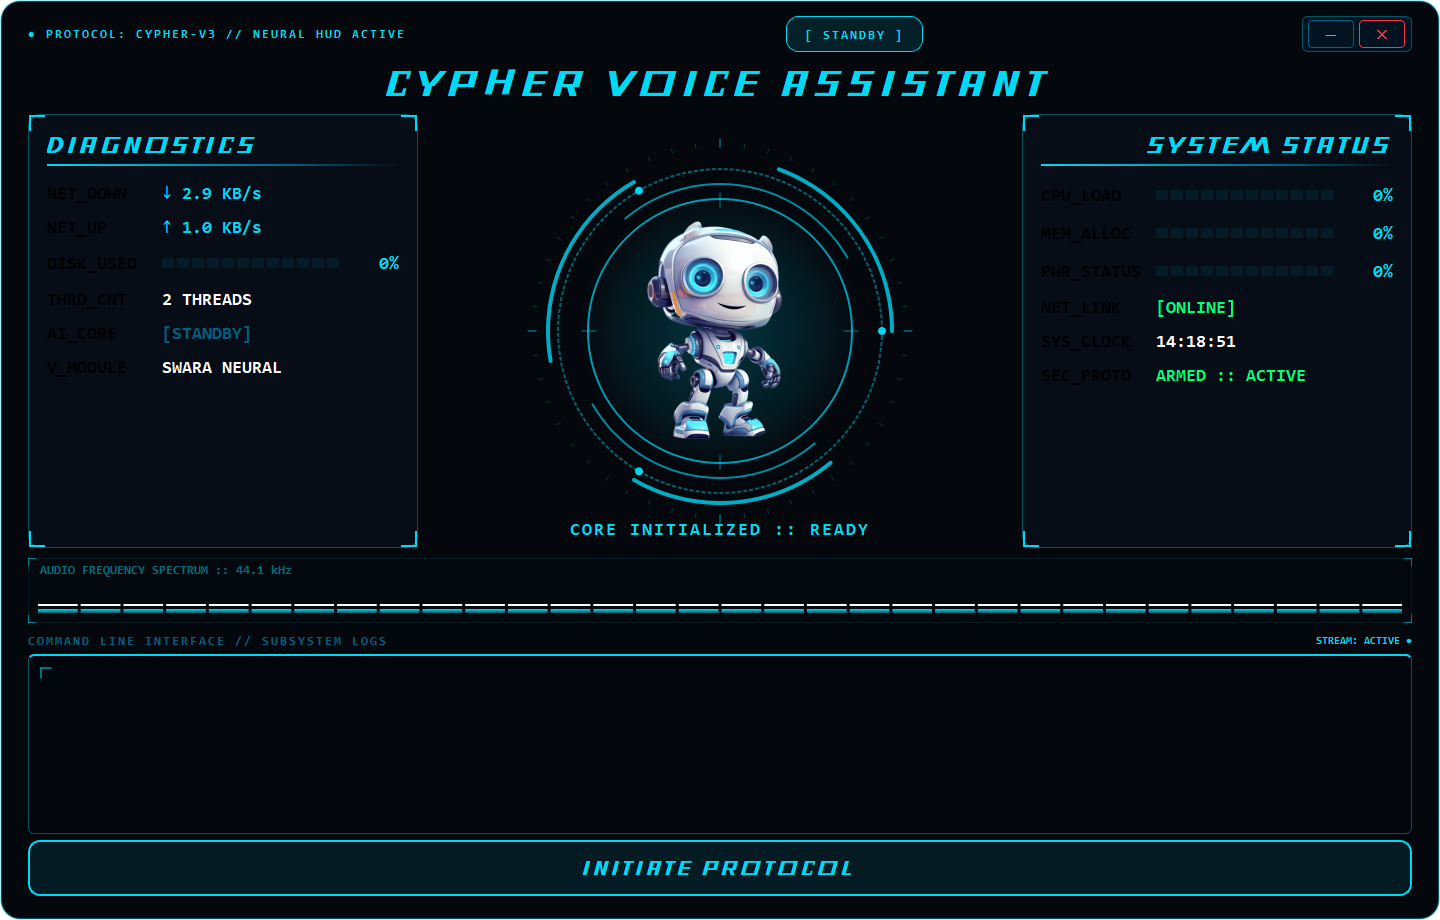
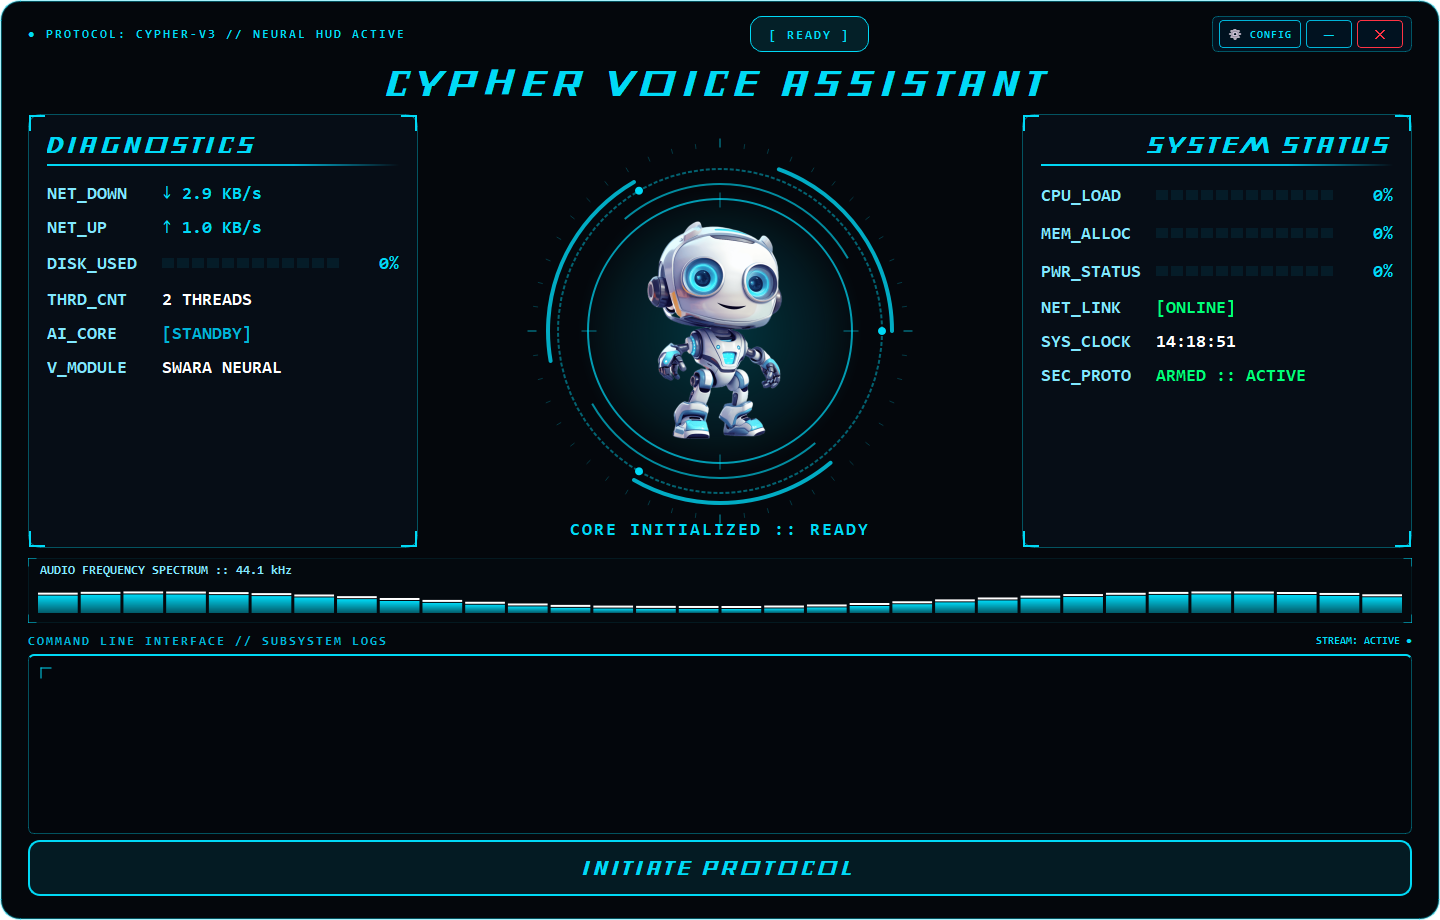
docs(readme): refresh HUD showcase screenshots and update architecture documentation
### Summary
- Regenerated all 5 high-resolution HUD state screenshots to reflect the new high-contrast icy cyan telemetry palette (#80e8ff) and vibrant secondary accents (#00b4d8).
- Updated README.md architecture directory tree to include the automated unit test suite (tests/) and credentials vault screenshot.
- Added Groq Cloud API environment configuration instructions and automated test runner documentation.

### Key Changes
- docs/screenshots: Captured updated HUD renders for idle, listening, processing, speaking, and settings dialog states with readable text.
- docs/README.md: Added High-Contrast Telemetry Palette feature bullet, included tests/ in architecture tree, documented GROQ_API_KEY, added test execution steps, and updated roadmap.

### Security & Privacy Impact
- Pure documentation and visual asset updates; zero sensitive credentials or private tokens included.

### Verification
- Automated test run outcomes: Ran 6 tests in 0.002s - OK.

diff --git a/README.md b/README.md
@@ -53,6 +53,7 @@ Cypher features an interactive, reactive sci-fi interface built on PyQt5 that dy
 * **Contextual State Engine:** Transitions smoothly between `idle` (cyan/blue), `listening` (matrix-green with sonar waves), `processing` (electric-blue vortex), and `speaking` (neon-magenta with vocal pulses).
 * **32-Band Audio Spectrum Equalizer (`VoiceVisualizer`):** Real-time audio frequency visualizer with harmonic sine dynamics and floating white peak caps that realistically decay.
 * **12-Segment LED Telemetry Gauges (`SegmentedGauge`):** Hardware diagnostics for **CPU Load**, **Memory Allocation**, **Battery Status**, and **Disk Storage** with dynamic color warning shifts (Cyan ➔ Amber ➔ Red).
+* **High-Contrast Telemetry Palette:** Crisp icy cyan data stream labels (`#80e8ff`) and vibrant secondary accents (`#00b4d8`) optimized for deep obsidian glassmorphism with verified contrast and high readability.
 * **Cyberpunk Corner Reticles & Terminal:** Framed by HUD corner tech brackets `[ ┏ ┓ ┗ ┛ ]`, a real-time status pill, and a hacker-style terminal log with typewriter animation.
 * **Standalone Credentials Vault (`SettingsDialog`):** Interactive settings modal accessible via `[⚙ CONFIG]` or auto-prompted on first run. End users of the standalone `.exe` can enter their API keys (Gemini, Groq, OpenWeather, NewsData, Email), probe live connections to Google AI Studio, and hot-reload credentials without ever touching code or manually creating a `.env` file.
 
@@ -90,11 +91,15 @@ Cypher-AI/
 ├── chat_memory.json    # Persistent multi-turn dialogue memory
 ├── .env                # API Keys & Secrets (Private)
 ├── font/               # Custom Sci-Fi & Monospace Fonts
+├── tests/              # Automated unit test suite (Palette, Contrast & Core Helpers)
+│   ├── test_core_helpers.py
+│   └── test_gui_palette.py
 └── screenshots/        # High-resolution HUD state captures
     ├── cypher_gui_idle.png
     ├── cypher_gui_listening.png
     ├── cypher_gui_processing.png
-    └── cypher_gui_speaking.png
+    ├── cypher_gui_speaking.png
+    └── cypher_settings_dialog.png
 ```
 
 ```mermaid
@@ -164,6 +169,9 @@ Create a `.env` file in the root directory:
 # Google Gemini AI Key (Get from https://aistudio.google.com/)
 GEMINI_API_KEY=your_gemini_api_key_here
 
+# Groq Cloud API Key (Optional high-speed inference fallback)
+GROQ_API_KEY=your_groq_api_key_here
+
 # Weather & News APIs
 OPENWEATHER_KEY=your_openweather_api_key
 NEWS_API_KEY=your_newsdata_api_key
@@ -179,6 +187,14 @@ Start the holographic interface (which automatically initializes the voice engin
 
 ```bash
 python gui.py
+```
+
+#### 6. Run Automated Tests
+
+Execute the automated test harness to verify UI contrast palettes, paths, and core subsystems:
+
+```bash
+python -m unittest discover -s tests -p "test_*.py"
 ```
 
 ---
@@ -206,6 +222,8 @@ python gui.py
 - [x] 32-band real-time audio spectrum frequency visualizer
 - [x] 12-segment illuminated LED telemetry meters for system diagnostics
 - [x] Native 4-state visual sync (Idle, Listening, Processing, Speaking)
+- [x] High-contrast holographic telemetry HUD palette with verified WCAG readability
+- [x] Automated unit test harness for contrast validation and path resolution
 - [ ] Multimodal Screen Vision via Gemini 1.5 Pro / Flash Vision
 - [ ] Offline wake-word detection via Picovoice Porcupine
 - [ ] Direct Spotify IPC playback integration
